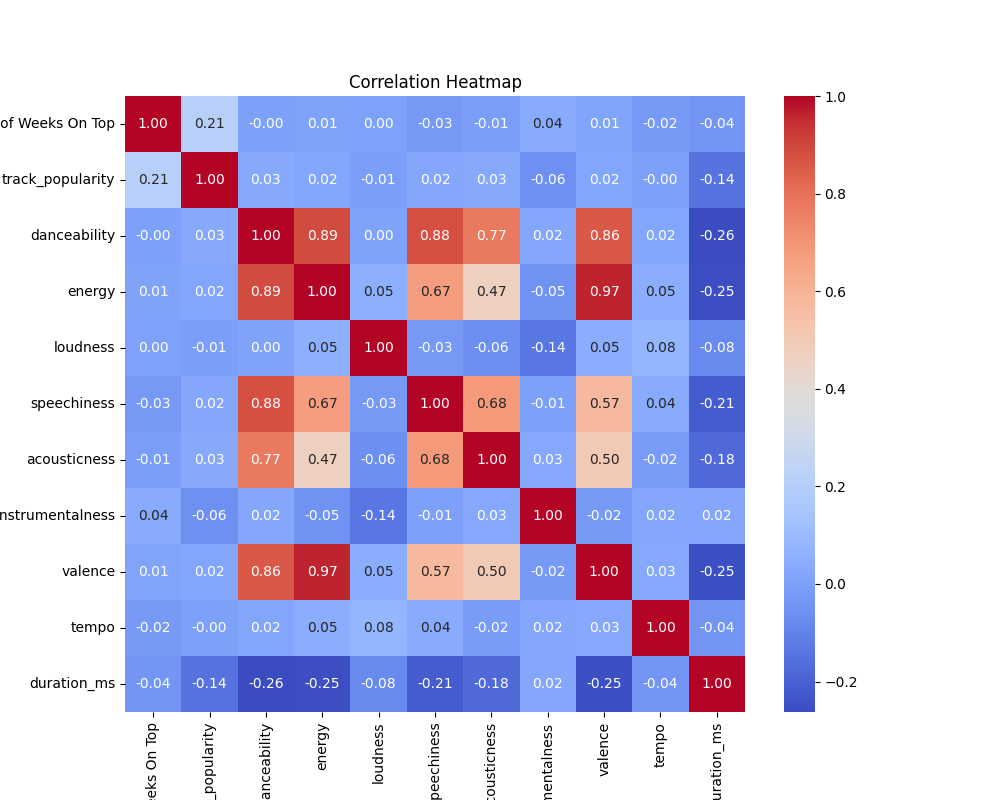
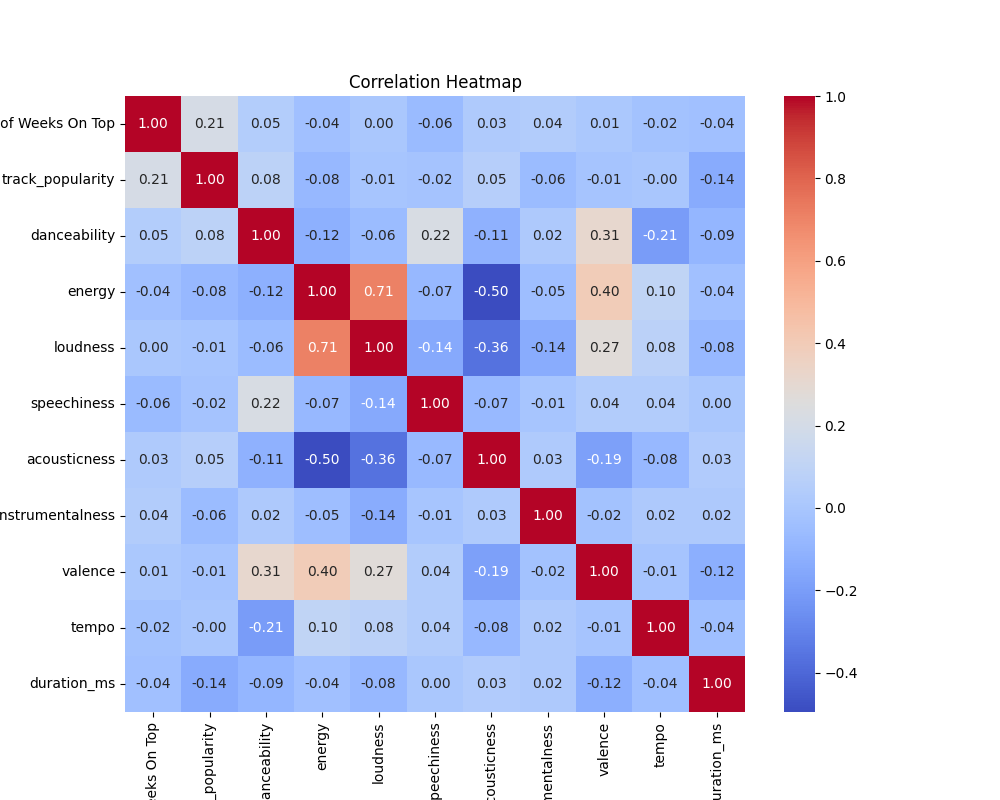
changes on histogram analysis

diff --git a/histogram_analysis.py b/histogram_analysis.py
@@ -7,11 +7,12 @@ import os
 
 # Load the dataset
 data = pd.read_csv('dataset.csv')
+data = data[data['Number of Weeks On Top'] > 0]
 
 # Drop unnecessary columns
-data.drop(['genre', 'track_name', 'Spotify ID'], axis=1, inplace=True)
+data.drop(['genre', 'Spotify ID'], axis=1, inplace=True)
 
-numerical_features = data.columns.drop(['Song Name', 'track_artist', 'Year'])
+numerical_features = data.columns.drop(['track_name', 'track_artist', 'Year'])
 
 print("\nPlotting correlation heatmap...")
 plt.figure(figsize=(10, 8))
@@ -30,7 +31,7 @@ for feature in numerical_features:
     print(data[feature].mean())
     
     # Calculate Z-scores for the feature
-    data[f'zscore_{feature}'] = zscore(data[feature])
+    data[f'zscore_{feature}'] = abs(zscore(data[feature]))
     
     # Plot histogram
     plt.figure(figsize=(8, 6))
@@ -41,7 +42,7 @@ for feature in numerical_features:
     plt.savefig(f"hist_analysis/histogram_{feature}.png")
     plt.close()
     
-    top_deviations = data.nlargest(10, f'zscore_{feature}')[['Year', 'Song Name', 'track_artist', feature, f'zscore_{feature}']]
+    top_deviations = data.nlargest(10, f'zscore_{feature}')[['Year', 'track_name', 'track_artist', feature, f'zscore_{feature}']]
     results.append({
         'feature': feature,
         'top_songs': top_deviations
